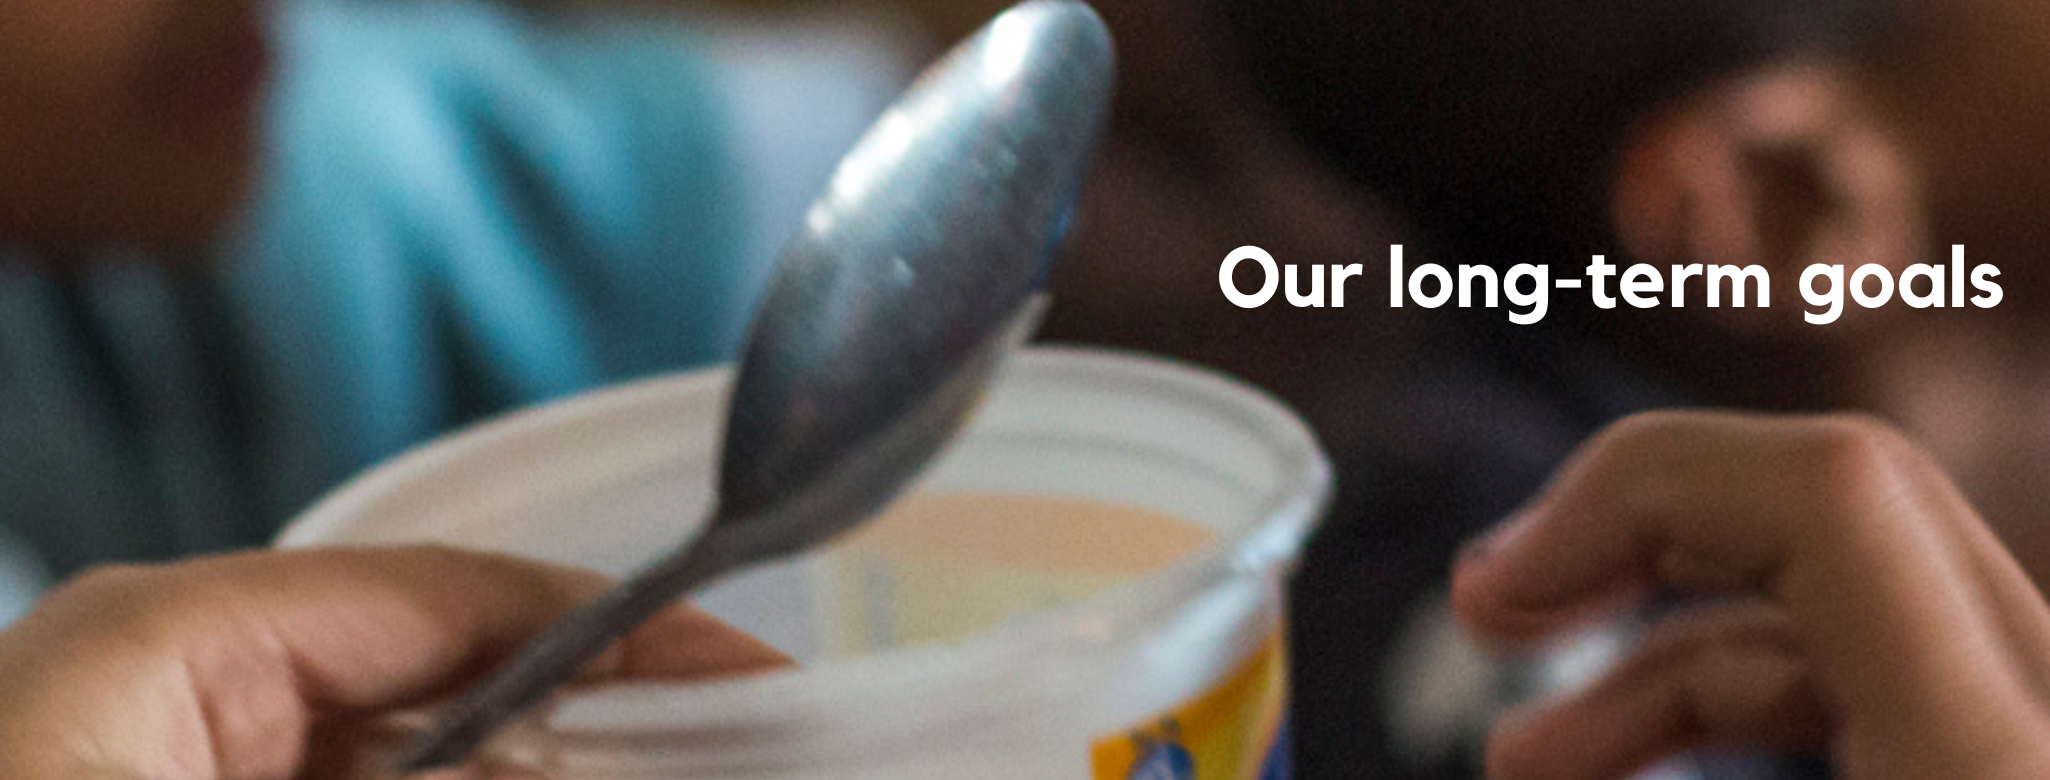
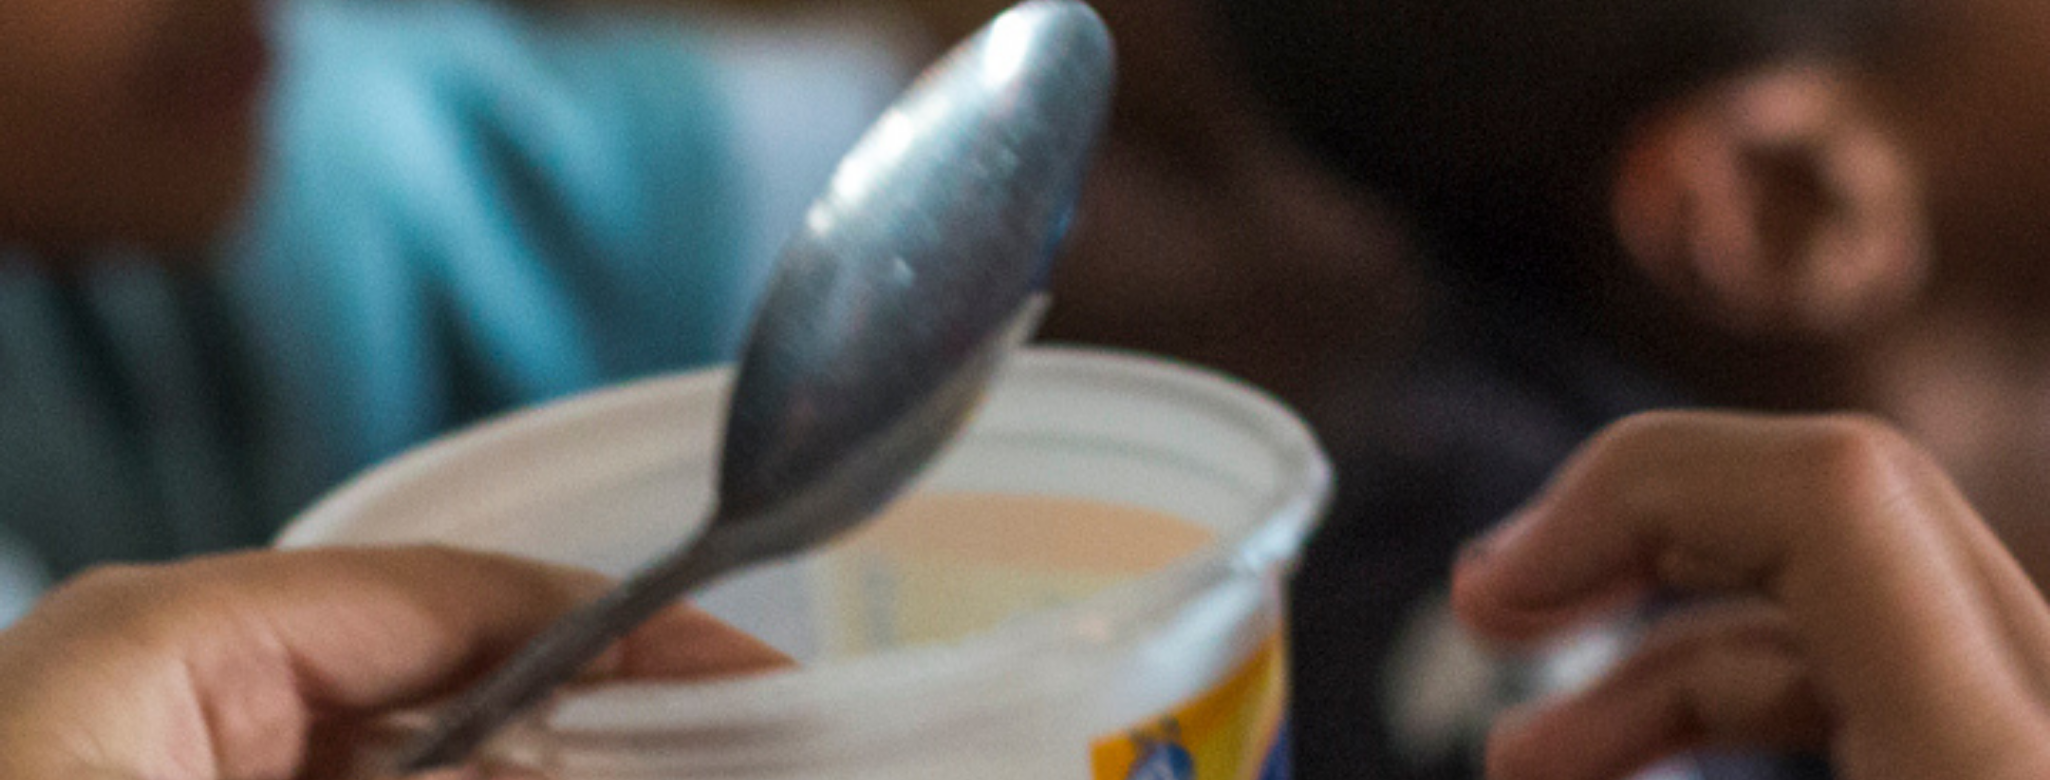
Updated pics and added donate button on top

Changed region(s): [[0.5932, 0.3077, 0.999, 0.4308]]

diff --git a/src/components/Pages/DonateYakera/DonateYakera.js b/src/components/Pages/DonateYakera/DonateYakera.js
@@ -4,7 +4,7 @@ import { validateFields } from '../Register/Validation';
 import ExCampaign from './yakeraCampaign.json';
 import "react-sweet-progress/lib/style.css";
 import  { Card, Grid } from '@material-ui/core';
-import image from '../../../pics/donate.png';
+import image from '../../../pics/donate_new.png';
 import ShareCard from '../CampaignPage/ShareCard';
 import ThanksCard from '../CampaignPage/thanksCard';
 import ConsentCard from '../CampaignPage/consentCard';
@@ -268,6 +268,13 @@ class DonateYakera extends Component{
                         <Grid container spacing={0} >
 
                             <Grid item xs={12} sm={6}>
+                            <button
+                                type="submit"
+                                className="btn btn-secondary btn-block yakera-donate-card-slit-btn mobile-only"
+                                onClick={this.handleScrollToDonate}                                   
+                                >
+                                Donate now
+                            </button>
 
                                 {ExCampaign.description.map((p) => 
                                     <p className="campaign-des" key={p}>

diff --git a/src/components/Pages/Home/home.js b/src/components/Pages/Home/home.js
@@ -17,6 +17,9 @@ class Home extends Component{
             <Grid container spacing={0} >
                 <Grid item xs={12} sm={8}>    
                     <div id='description-home'>
+                        {texts["pre-des"]}
+                    <br />
+                    <br />
                         <b style={{color:'#d62828'}}>Yakera</b>{texts["description"]["eng"]}
                     </div>
                 </Grid>

diff --git a/src/components/Pages/AboutUs/pics.js b/src/components/Pages/AboutUs/pics.js
@@ -1,7 +1,7 @@
 export const pics = 
     {
-        "about": require("../../../pics/about.png"),
-        "how": require("../../../pics/how.png"),
+        "about": require("../../../pics/about_us_new.png"),
+        "how": require("../../../pics/how_new.png"),
         "what": require("../../../pics/what.png"),
         "mission": require("../../../pics/mission.JPG"),
         "trial": require("../../../pics/trial.png"),

diff --git a/src/components/Pages/DonateYakera/donateYakera.css b/src/components/Pages/DonateYakera/donateYakera.css
@@ -1,4 +1,6 @@
-
+.mobile-only{
+    display: none;
+}
 .yakera-campaign-page {
     margin-top: 40px;
     padding: 0px 0px 0px 5%;
@@ -127,6 +129,10 @@
     float: left;
 }
 @media only screen and (max-width: 600px) {
+    .mobile-only{
+        display: inline;
+        margin-left: 20%;
+    }
     .campaign-des {
       width: 95%;
       text-align: start;

diff --git a/src/components/Pages/AboutUs/about.css b/src/components/Pages/AboutUs/about.css
@@ -1,5 +1,6 @@
 .about-page {
     padding: 30px 0px;
+    margin-top: -20px;
 }
 .about-banner {
     min-height: 100%;
